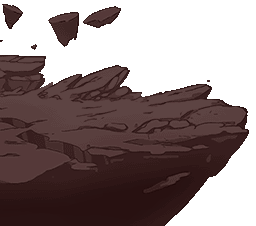
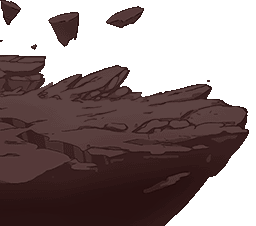
expurgation

Changed region(s): [[0.3125, 0.031, 0.5625, 0.1239], [0.0, 0.0, 0.0938, 0.1239]]

diff --git a/src/stage/weekt4.c b/src/stage/weekt4.c
@@ -39,16 +39,20 @@ typedef struct
 } Back_WeekT4;
 
 //Clonexpur animation and rects
-static const CharFrame clonexpur_frame[5] = {
-	{0, {  0,   0,  75, 121}, { 71,  98}}, //0 left 1
-	{0, {  0,   0,  75, 121}, { 71,  98}}, //1 left 2
-	{0, {  0,   0,  75, 121}, { 71,  98}}, //2 left 3
-	{0, {  0,   0,  75, 121}, { 71,  98}}, //3 left 4
-	{0, {  0,   0,  75, 121}, { 71,  98}}, //4 left 5
+static const CharFrame clonexpur_frame[8] = {
+	{0, {  224,   0,  3, 3}, { 71,  98}}, //0 left 1
+	{0, {  0,   0,  71, 121}, { 20, 121}}, //1 left 2
+	{0, {  78,  0,  68, 93}, { 43,  92}}, //2 left 3
+	{0, {149,   0,  73, 105}, { 25, 103}}, //3 left 4
+	{0, {  0, 139,  74, 113}, { 43, 113}}, //4 left 5
+	{0, { 76,  94,  74, 101}, { 42, 101}}, //5 left 4
+	{0, { 79, 198, 104, 60}, { 50,  60}}, //6 left 5
+	{0, {206,  86,  51, 171}, { 33, 150}}, //7 left 4
+
 };
 
 static const Animation clonexpur_anim[] = {
-	{2, (const u8[]){0, 1, 2, 3, 4, ASCR_BACK, 1}}, //Left
+	{2, (const u8[]){0, 1, 2, 3, 4, 5, 6,  2, 3, 4, 5, 6,  2, 3, 4, 5, 6, 2, 3, 4, 5, 6,  2, 3, 4, 5, 6,  2, 3, 4, 5, 6, 2, 3, 4, 5, 6,  2, 3, 4, 5, 6,  2, 3, 4, 5, 6, 7, 0, 0, 0, 0, 0, 0, 0, 0, 0, 0, 0, 0, 0, 0, 0, 0, 0, 0, 0, 0, 0, ASCR_BACK, 1}}, //Left
 };
 
 //Clonexpur functions
@@ -110,8 +114,19 @@ void Back_WeekT4_DrawFG(StageBack* back)
 
 	Stage_DrawTex(&this->tex_cut0, &cover_src, &cover_dst, stage.camera.bzoom);
     
+	if (stage.flag & STAGE_FLAG_JUST_STEP)
+	{
+		switch (stage.song_step & 64)
+		{
+		case 0:
+			Animatable_SetAnim(&this->clonexpur_animatable, 0);
+			break;
+		}
+	}
 	Animatable_Animate(&this->clonexpur_animatable, (void*)this, WeekT4_Clonexpur_SetFrame);
-	WeekT4_Clonexpur_Draw(this, FIXED_DEC(-50,1) - fx, FIXED_DEC(30,1) - fy);
+
+	WeekT4_Clonexpur_Draw(this, FIXED_DEC(-100,1) - fx, FIXED_DEC(55,1) - fy);
+
 
 }
 
@@ -147,8 +162,8 @@ void Back_WeekT4_DrawBG(StageBack *back)
 
 	Stage_DrawTex(&this->tex_back2, &RockR_src, &RockR_dst, stage.camera.bzoom);
 
-	fx = stage.camera.x * 2 / 3;
-	fy = stage.camera.y * 2 / 3;
+	fx = stage.camera.x * 3 / 4;
+	fy = stage.camera.y * 3 / 4;
 
 	//Draw
 	RECT light_src = { 0, 0, 102, 255};
@@ -160,6 +175,9 @@ void Back_WeekT4_DrawBG(StageBack *back)
 	};
 
 	Stage_DrawTex(&this->tex_cut1, &light_src, &light_dst, stage.camera.bzoom);
+
+	fx = stage.camera.x * 2 / 3;
+	fy = stage.camera.y * 2 / 3;
 
 	//Draw
 	RECT bg_src = { 0, 0, 256, 256};

diff --git a/src/stage/weekt2.c b/src/stage/weekt2.c
@@ -540,32 +540,34 @@ void Back_WeekT2_DrawBG(StageBack *back)
 	RECT window1_src = { 0, 55, 249, 171 };
 	RECT_FIXED window1_dst = {
 		FIXED_DEC(0,1) - fx,
-		FIXED_DEC(-73,1) - fy,
+		FIXED_DEC(-70,1) - fy,
 		FIXED_DEC(398,1),
 		FIXED_DEC(342,1)
 	};
 
 	Stage_DrawTex(&this->tex_back1, &window1_src, &window1_dst, stage.camera.bzoom);
 
-	fx = stage.camera.x * 4 / 5;
-	fy = stage.camera.y * 4 / 5;
+	fx = stage.camera.x * 4 / 6;
+	fy = stage.camera.y * 4 / 6;
 
 	//Draw rocks
 	RECT rocksl_src = { 0, 8, 246, 45};
 	RECT_FIXED rocksl_dst = {
 		FIXED_DEC(-460,1) - fx,
-		FIXED_DEC(-120,1) - fy,
+		FIXED_DEC(-100,1) - fy,
 		FIXED_DEC(422,1),
 		FIXED_DEC(90,1)
 	};
 
 	Stage_DrawTex(&this->tex_back0, &rocksl_src, &rocksl_dst, stage.camera.bzoom);
 
+
+
 	//Draw rocks
-	RECT rocksr_src = { 0, 3, 200, 47 };
+	RECT rocksr_src = { 0, 0, 200, 50};
 	RECT_FIXED rocksr_dst = {
 		FIXED_DEC(-20,1) - fx,
-		FIXED_DEC(-123,1) - fy,
+		FIXED_DEC(-103,1) - fy,
 		FIXED_DEC(400,1),
 		FIXED_DEC(94,1)
 	};
@@ -573,12 +575,12 @@ void Back_WeekT2_DrawBG(StageBack *back)
 	Stage_DrawTex(&this->tex_back1, &rocksr_src, &rocksr_dst, stage.camera.bzoom);
 
 
-	fx = stage.camera.x * 2 / 4;
-	fy = stage.camera.y * 2 / 4;
+	fx = stage.camera.x * 2 / 6;
+	fy = stage.camera.y * 2 / 6;
 
 	RECT bg_src = { 0, 0, 256, 256 };
 	RECT_FIXED bg_dst = {
-		FIXED_DEC(-300,1) - fx,
+		FIXED_DEC(-250,1) - fx,
 		FIXED_DEC(-200,1) - fy,
 		FIXED_DEC(512,1),
 		FIXED_DEC(512,1)

diff --git a/src/character/expurc.c b/src/character/expurc.c
@@ -178,7 +178,7 @@ static const CharFrame char_expurc_frame[] = {
 };
 
 static const Animation char_expurc_anim[CharAnim_Max] = {
-	{1, (const u8[]){ 65, 65, 65, 65, 65, 65, 65, 65, 65, 65, 65, 65, 65, 65, 65, 65, 65, 65, 65, 65, 65, 65, 65, 65, 65, 65, 65, 65, 44, 44, 45, 45, 46, 46, 47, 47, 48, 48, 49, 49, 50, 50, 51, 52, 53, 54, 55, 56, 57, 58, 59, 60, 61, 62, 63, 64, 54, 55, 56, 57, 58, 59, 60, 61, 62, 63, 64,54, 55, 56, 57, 58, 59, 60, 61, 62, 63, 64, ASCR_CHGANI, CharAnim_ClownKillsYou}},     //CharAnim_Idle
+	{1, (const u8[]){ 65, 65, 65, 65, 65, 65, 65, 65, 65, 65, 65, 65, 65, 65, 65, 65, 65, 65, 65, 65, 65, 65, 65, 65, 65, 65, 65, 65, 44, 45, 46, 46, 46, 47, 47, 47, 48, 48, 49, 49, 50, 50, 51, 52, 53, 54, 55, 56, 57, 58, 59, 60, 61, 62, 63, 64, 54, 55, 56, 57, 58, 59, 60, 61, 62, 63, 64,54, 55, 56, 57, 58, 59, 60, 61, 62, 63, 64, ASCR_CHGANI, CharAnim_ClownKillsYou}},     //CharAnim_Idle
 	{2, (const u8[]){ 6, 7, 8, 9, 10, 11, 12, 13, ASCR_CHGANI, CharAnim_ClownKillsYou}},                                                   //CharAnim_Left
 	{0, (const u8[]){ASCR_CHGANI, CharAnim_Idle}},                                     //CharAnim_LeftAlt
 	{2, (const u8[]){14, 15, 16, 17, 18, 19, 20, 21, ASCR_CHGANI, CharAnim_ClownKillsYou}},                                                   //CharAnim_Down

diff --git a/src/menu.c b/src/menu.c
@@ -1,3 +1,4 @@
+
 /*
   This Source Code Form is subject to the terms of the Mozilla Public
   License, v. 2.0. If a copy of the MPL was not distributed with this
@@ -26,7 +27,7 @@
 
 //Menu messages
 static const char* funny_messages[][12] = {
-	{"SCREW YOU GUYS", "IM GOING HOME", "I PUT MYSELF ON PSX MORTY", "IM PSX RIIIIIIIIIIIIIIICK", "CUCKYFNF", "AWARD WINNING SONIC NERD", "lool", "inverted colours", "NO FMV CUTSCENES", "SORRY", "USE A CONTROLLER", "LOL"},
+	{"SCREW YOU GUYS", "IM GOING HOME", "I PUT MYSELF ON PSX MORTY", "IM PSX RIIIIIIIIIIIIIIICK", "LORD SCOUT", "AWARD WINNING SONIC NERD", "lool", "inverted colours", "NO FMV CUTSCENES", "SORRY", "USE A CONTROLLER", "LOL"},
 	{"LORD SCOUT", "CHECK OUT HIS YOUTUBE", "SHOUTOUT TO ROZEBUD", "HE DID MUSIC", "SHOUTOUT TO CVAL", "HE CHARTED", "SHOUTOUT TO BANBUDS", "HE ARTED", "SHOUTOUT TO SMOKEY", "HE FARTED", "SHOUTOUT TO KADEDEV", "HE IS KADEDEV"},
 	{"PLAYING ON EPSXE HUH", "YOURE THE PROBLEM", "YOU DO NOT KILL CLOWN", "CLOWN KILLS YOU", "TRICKY X CAROL", "DIE", "HE DOES NOT", "SOUND LIKE WHITTY", "AVERAGE WHITTY FAN", "AVERAGE TRICKY ENJOYER", "CHECK OUT JADS", "HE DOES MUSIC"},
 };

diff --git a/src/character/bf.c b/src/character/bf.c
@@ -228,9 +228,24 @@ void Char_BF_Tick(Character *character)
 			this->character.focus_zoom = FIXED_DEC(1, 1);
 		}
 
+	if (stage.stage_id == StageId_1_2)
+	{
+		this->character.focus_x = FIXED_DEC(-50, 1);
+		this->character.focus_y = FIXED_DEC(-80, 1);
+		this->character.focus_zoom = FIXED_DEC(8, 10);
+	}
+
 	if (stage.stage_id == StageId_1_2 && stage.song_step >= 2158)
 	{
-		this->character.focus_x = FIXED_DEC(-115, 1);
+		this->character.focus_x = FIXED_DEC(-120, 1);
+		this->character.focus_y = FIXED_DEC(-105, 1);
+		this->character.focus_zoom = FIXED_DEC(6, 10);
+	}
+
+
+	if (stage.stage_id == StageId_1_2 && stage.song_step >= 2162)
+	{
+		this->character.focus_x = FIXED_DEC(-125, 1);
 		this->character.focus_y = FIXED_DEC(-105, 1);
 		this->character.focus_zoom = FIXED_DEC(8, 10);
 	}

diff --git a/src/stage/weekt.c b/src/stage/weekt.c
@@ -215,8 +215,8 @@ void Back_WeekT_DrawBG(StageBack *back)
 
 	Stage_DrawTex(&this->tex_back2, &window1_src, &window1_dst, stage.camera.bzoom);
 
-	fx = stage.camera.x * 2 / 4;
-	fy = stage.camera.y * 2 / 4;
+	fx = stage.camera.x * 2 / 6;
+	fy = stage.camera.y * 2 / 6;
 
 	if (stage.stage_id == StageId_1_1 && stage.song_step <= 1424)
 	{
@@ -235,7 +235,7 @@ void Back_WeekT_DrawBG(StageBack *back)
 	{
 		RECT bg_src = { 0, 0, 256, 256 };
 		RECT_FIXED bg_dst = {
-			FIXED_DEC(-270,1) - fx,
+			FIXED_DEC(-280,1) - fx,
 			FIXED_DEC(-200,1) - fy,
 			FIXED_DEC(512,1),
 			FIXED_DEC(512,1)

diff --git a/src/character/madc.c b/src/character/madc.c
@@ -218,7 +218,7 @@ Character* Char_MadC_New(fixed_t x, fixed_t y)
 
 	this->character.focus_x = FIXED_DEC(50, 1);
 	this->character.focus_y = FIXED_DEC(-80, 1);
-	this->character.focus_zoom = FIXED_DEC(1, 1);
+	this->character.focus_zoom = FIXED_DEC(8, 10);
 
 	//Load art
 	this->arc_main = IO_Read("\\CHAR\\MADC.ARC;1");
